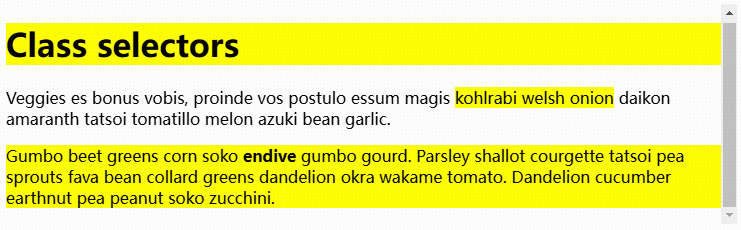
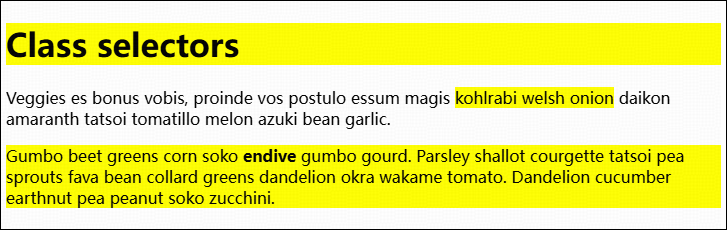
2024-11-28

diff --git a/frontend.md b/frontend.md
@@ -21,6 +21,7 @@
 Notes:
 
 * `utf-8` is a universal character set that includes pretty much any character from any human language. (This means that the web page will be able to handle displaying any language.)
+* 
 
 ## 1.3 HTML text fundamentals
 
@@ -40,17 +41,60 @@ Each heading has to be wrapped in a heading element:
 
 > &emsp;&emsp;There are six heading elements: h1, h2, h3, h4, h5, and h6. Each element represents a different level of content in the document; `<h1>` represents the main heading, `<h2>` represents subheadings, `<h3>` represents sub-subheadings, and so on.
 
-![frontend-html-head-para-ui](./assets/frontend-html-head-para-ui.png)
+<img src="./assets/frontend-html-head-para-ui.png" width="400px">
 
 ### 1.3.2 Lists
 
 ### 1.3.3 Emphasis and importance
+
+## 1.4 
 
 # 2 CSS
 
 ## 2.1 Getting started with CSS
 
 &emsp;&emsp;CSS (Cascading Style Sheets) is the code that styles web content.
+
+### 2.1.1 Applying CSS to HTML
+
+&emsp;&emsp;There are three methods to apply CSS to a document: with an external stylesheet, with an internal stylesheet, and with inline styles.
+
+&emsp;&emsp;An external stylesheet contains CSS in a separate file with a `.css` extension. 
+
+> This is the most common and useful method of bringing CSS to a document. We can link a single CSS file to multiple web pages, styling all of them with the same CSS stylesheet.
+
+Reference an external CSS stylesheet from an HTML <link> element:
+
+```html
+<!doctype html>
+<html lang="en-GB">
+    <head>
+        <meta charset="utf-8" />
+        <title>My CSS experiment</title>
+        <link rel="stylesheet" href="styles.css" />
+    </head>
+    <body>
+        <h1>Hello World!</h1>
+        <p>This is my first CSS example</p>
+    </body>
+</html>
+```
+
+The CSS stylesheet file might look like this:
+
+```css
+h1 {
+    color: blue;
+    background-color: yellow;
+    border: 1px solid black;
+}
+
+p {
+    color: red;
+}
+```
+
+### 2.1.2
 
 ## 2.2 CSS selectors
 
@@ -97,7 +141,7 @@ em {
 }
 ```
 
-![frontend-css-type-selector-ui](./assets/frontend-css-type-selector-ui.png)
+<img src="./assets/frontend-css-type-selector-ui.png" width="600px">
 
 &emsp;&emsp;The case-sensitive **class selector** starts with a dot `.` character. It will select everything in the document with that class applied to it. 
 
@@ -126,7 +170,7 @@ body {
 }
 ```
 
-![frontend-css-class-selector-ui](./assets/frontend-css-class-selector-ui.png)
+<img src="./assets/frontend-css-class-selector-ui.png" width="600px">
 
 &emsp;&emsp;The case-sensitive **ID selector** begins with a `#` rather than a `.` character, but is used in the same way as a class selector. It can select an element that has the `id` set on it. (However, an ID can be used only once per page, and elements can only have a single id value applied to them. )
 
@@ -158,7 +202,7 @@ h1#heading {
 }
 ```
 
-![frontend-css-id-selector-ui](./assets/frontend-css-id-selector-ui.png)
+<img src="./assets/frontend-css-id-selector-ui.png" width="600px">
 
 ### 2.2.2 Attribute selectors
 
@@ -178,13 +222,11 @@ h1#heading {
 
 &emsp;&emsp;JavaScript is a programming language that adds interactivity to the website.
 
-
-
 # 4 TypeScript
 
 # 5 Node.js
 
-# 6
+# 6 
 
 ## 6.1 jQuery
 
@@ -192,6 +234,10 @@ h1#heading {
 
 ## 6.3 less
 
-# 7 vue
+# 7 Vue
 
+# questions
 
+<a href="https://github.com/turbio/bracey.vim/issues/21" >bracey build</a>
+
+<a href="https://blog.csdn.net/m0_52172586/article/details/142930356" >npm to slow</a>

diff --git a/c.md b/c.md
@@ -77,7 +77,6 @@ printf("b(0x1F) = %d\n", b);  // b(0x1F) = 31
 &emsp;&emsp;Floating-point constants contain a decimal point (123.4) or an exponent (1e-2) or both; their type is `double`, unless suffixed. The suffixes `f` or `F` indicate a `float` constant; `l` or `L` indicate a `long double`.
 
 ```c
-
 ```
 
 &emsp;&emsp;A character constant is an integer, written as one character within single quotes, such as `'x'`. The value of a character constant is the numeric value of the character in the machine's character set.
@@ -85,7 +84,6 @@ printf("b(0x1F) = %d\n", b);  // b(0x1F) = 31
 > &emsp;&emsp;For example, in the ASCII character set the character constant `'0'` has the value `48`, which is unrelated to the numeric value 0. If we write `'0'` instead of a numeric value like `48` that depends on character set, *the program is independent of the particular value and easier to read*.
 
 ```c
-
 ```
 
 ## 2.4 Declarations
@@ -229,5 +227,4 @@ else if (expression5)
 else
     statement;
 ```
-
 
